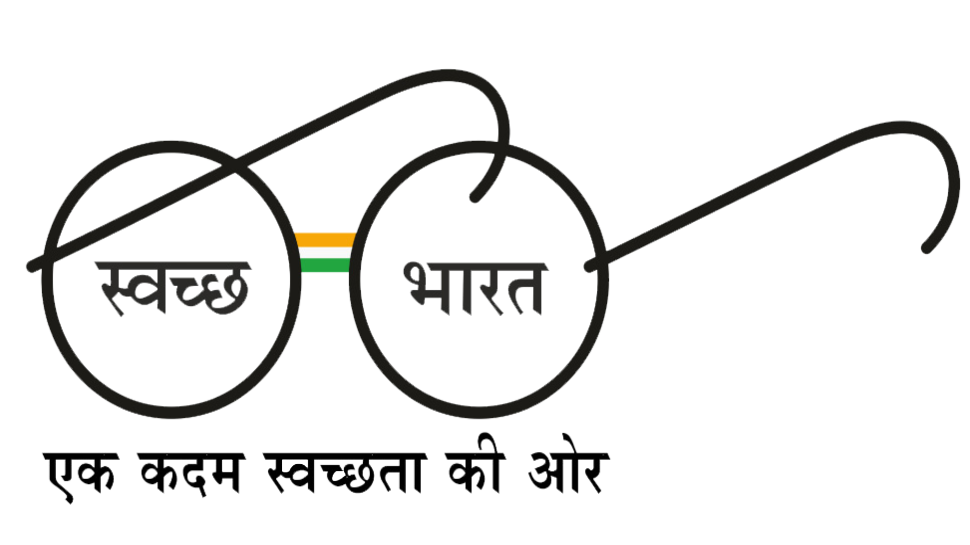
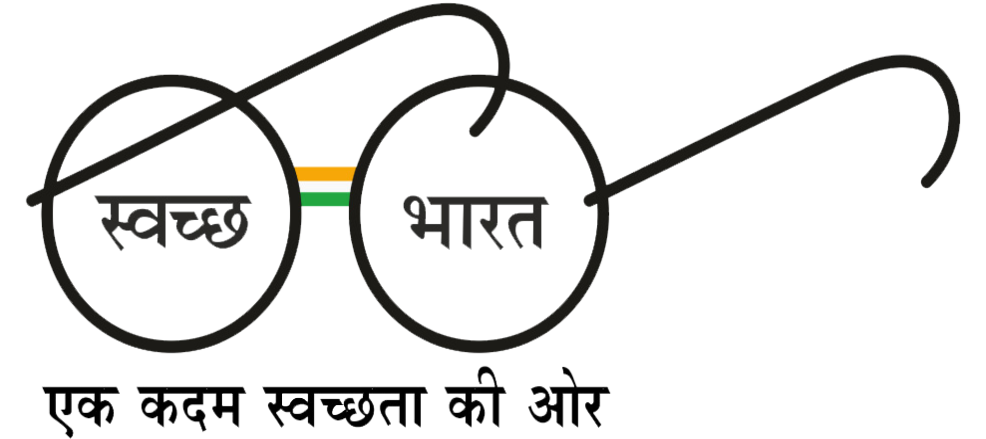
Updated Code

Changed region(s): [[0.0, 0.0, 0.9897, 1.0]]

diff --git a/web/css/site.css b/web/css/site.css
@@ -133,5 +133,5 @@ a.desc:after {
 }
 
 .logo-bharath{
-    width:85px;   
+    width:95px;   
 }

diff --git a/controllers/EventController.php b/controllers/EventController.php
@@ -82,7 +82,6 @@ class EventController extends Controller
              $modelsTeam = Model::createMultiple(Team::classname());
              Model::loadMultiple($modelsTeam, Yii::$app->request->post());
 
-             // validate all models
              $valid = $model->validate();
              $valid = Model::validateMultiple($modelsTeam) && $valid;
 
@@ -123,9 +122,6 @@ class EventController extends Controller
                                     }
                                 }
                             }
-
-
-
                          }
                      }
                      if ($flag) {
@@ -186,7 +182,6 @@ class EventController extends Controller
 
         if ($model->load(Yii::$app->request->post())) {
 
-            // reset
             $modelsVolunteer = [];
 
             $oldTeamIDs = ArrayHelper::map($modelsTeam, 'id', 'id');
@@ -194,7 +189,6 @@ class EventController extends Controller
             Model::loadMultiple($modelsTeam, Yii::$app->request->post());
             $deletedTeamIDs = array_diff($oldTeamIDs, array_filter(ArrayHelper::map($modelsTeam, 'id', 'id')));
 
-            // validate event and Teams models
             $valid = $model->validate();
             $valid = Model::validateMultiple($modelsTeam) && $valid;
 
@@ -272,8 +266,31 @@ class EventController extends Controller
 
     public function actionRegister($id)
     {
-        $model = new Registration();
-        $model->user_id = Yii::$app->user->getId();
+        $modelTeam = Team::findOne($id);
+        if ( $modelTeam == null) {
+            return $this->redirect(['/site/index']);
+        }
+        $count = Registration::find()->where(['user_id'=> Yii::$app->user->getId(),'event_id'=> $modelTeam->event_id])->count();
+        if( $count == 0){
+            $vacant = $modelTeam->team_size - Registration::find()->where(['team_id'=> $id])->count();
+            if($vacant){
+                $model = new Registration();
+                $model->user_id = Yii::$app->user->getId();
+                $model->team_id = $id;
+                $model->event_id = $modelTeam->event_id;
+                $model->created_at = new \yii\db\Expression('NOW()');
+                $model->save();
+                return $this->redirect(['/user/dash-participant']);
+            }
+            else{
+                return $this->redirect(['/site/event','id'=>$modelTeam->event_id]);
+            }
+
+        }
+        else {
+            return $this->redirect(['/user/dash-participant']);
+        }
+        
     }
     /**
      * Deletes an existing Event model.

diff --git a/views/user/event_manager_dash.php b/views/user/event_manager_dash.php
@@ -5,14 +5,11 @@ $this->title = 'Dashboard - Event Manager';
 ?>
 
 <div class = "row">
-    <div class = "col-md-9">
-    <h1>Created Events</h1> 
-    </div>
-    <div class = "col-md-3">    
-        <?= Html::a('Create a new Event', ['/event/create'], ['class' => 'btn btn-info btn-group-justified']);?>
-    </div>
-</div>
+        <h1 class="pull-left"><?= Html::encode($this->title) ?></h1>
+        <h1 class="pull-right"><?= Html::a('Create a new Event', ['/event/create'], ['class' => 'btn btn-info']);?></h1>
 
+</div>
+<h2>Created Events</h2> 
 <?=
 ListView::widget([
     'dataProvider' =>$dataEvents,

diff --git a/views/user/participant_dash.php b/views/user/participant_dash.php
@@ -1,3 +1,14 @@
 <?php 
+
+use yii\helpers\Html;
+
 $this->title = 'Dashboard - Participant'
 ?>
+<div class="user-index">
+    <div class="row">
+        
+        <h1 class="pull-left"><?= Html::encode($this->title) ?></h1>
+        
+    </div>
+    <h2>Registered Events</h2>
+</div>

diff --git a/controllers/UserController.php b/controllers/UserController.php
@@ -97,7 +97,8 @@ class UserController extends Controller
     public function actionDashParticipant()
     {
 
-        
+        return $this->render('participant_dash');
+
     }
 
     /**

diff --git a/views/user/admin_dash.php b/views/user/admin_dash.php
@@ -1,6 +1,3 @@
-<?php 
-
-?>
 <?php
 use yii\helpers\Html;
 use yii\grid\GridView;
